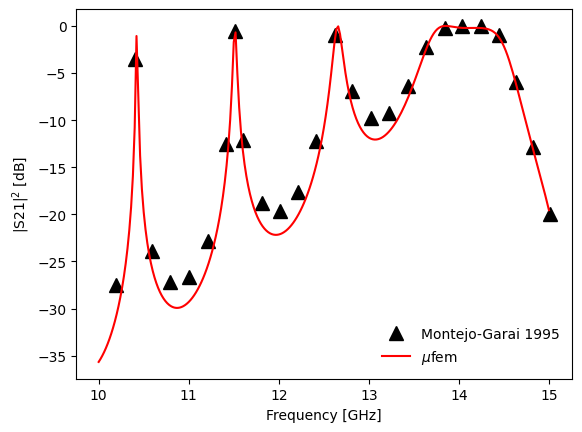
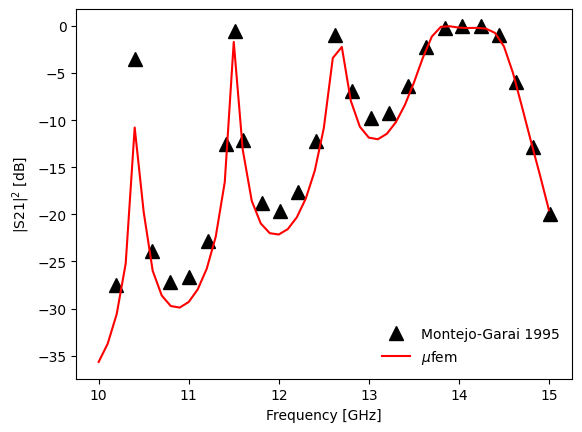
chore!(SFW-104): Material Methods Time-Harmonic Magnetics

diff --git a/Electromagnetics/Compumag-Team7-Asymmetrical-Conductor-with-a-Hole/case.py b/Electromagnetics/Compumag-Team7-Asymmetrical-Conductor-with-a-Hole/case.py
@@ -30,18 +30,18 @@ magnetic_model = TimeHarmonicMagneticModel(Vol.Everywhere, frequency=50, order=3
 sim.get_model_manager().add_model(magnetic_model)
 
 # Define the materials
-air_material = TimeHarmonicMagneticGeneralMaterial.Constant(
-    name="Air", marker="Air" @ Vol
+air_material = TimeHarmonicMagneticGeneralMaterial(
+    name="Air", marker="Air" @ Vol, has_eddy_currents=False
 )
 
-copper_material = TimeHarmonicMagneticGeneralMaterial.Constant(
-    name="Copper", marker="Coil" @ Vol
+copper_material = TimeHarmonicMagneticGeneralMaterial(
+    name="Copper", marker="Coil" @ Vol, has_eddy_currents=False
 )
 
-alu_material = TimeHarmonicMagneticGeneralMaterial.Constant(
+alu_material = TimeHarmonicMagneticGeneralMaterial(
     name="Alu",
     marker="Plate" @ Vol,
-    relative_magnetic_permeability=1.0,
+    magnetic_permeability=1.0,
     electric_conductivity=3.526e7,
 )
 

diff --git a/Electromagnetics/Montejo-Garai_1995_Circular_Cavity_Filter/case.py b/Electromagnetics/Montejo-Garai_1995_Circular_Cavity_Filter/case.py
@@ -81,7 +81,7 @@ sim.get_report_manager().add_report(report_s_parameters)
 # **************************************************************************************
 # Run the simulation
 # **************************************************************************************
-Nf = 251  # number of frequencies to scan
+Nf = 51  # number of frequencies to scan
 frequencies = numpy.linspace(10e9, 15e9, Nf)  # [Hz] frequencies to scan
 
 frequencies_paraview = [12e9, 14e9]  # [Hz] frequencies at which to save the field
@@ -93,7 +93,7 @@ S21 = numpy.zeros(Nf, dtype=complex)
 
 for i, frequency in enumerate(frequencies):
     if is_main_process:
-        print(f"\nFrequency {i+1} of {Nf}...")
+        print(f"\nFrequency {i+1}/{Nf}: {frequency/1e9:.3f}GHz")
 
     model.set_frequency(frequency)
     runner.advance(1)

diff --git a/Electromagnetics/David_2019_Nonuniform_Charge_Density/case.py b/Electromagnetics/David_2019_Nonuniform_Charge_Density/case.py
@@ -20,7 +20,7 @@ domain_marker = "Domain" @ mufem.Vol
 model = estat.ElectrostaticsModel(marker=domain_marker, order=2)
 sim.get_model_manager().add_model(model)
 
-material = estat.ElectrostaticMaterial.Constant(name="Air", marker=domain_marker)
+material = estat.ElectrostaticMaterial(name="Air", marker=domain_marker)
 model.add_material(material)
 
 # Setup the conditions -----------------------------------------------------------------

diff --git a/Electromagnetics/Ren_2014_MEMS_Comb_Drive/case.py b/Electromagnetics/Ren_2014_MEMS_Comb_Drive/case.py
@@ -125,8 +125,7 @@ mesh_refiner.set_refinement_fraction(0.3)
 
 
 # Materials ----------------------------------------------------------------------------
-eps = 1.0  # relative permittivity
-material = ElectrostaticMaterial.Constant("Air", Everywhere @ Vol, eps)
+material = ElectrostaticMaterial("Air", Everywhere @ Vol, electric_permittivity=1.0)
 model.add_material(material)
 
 
